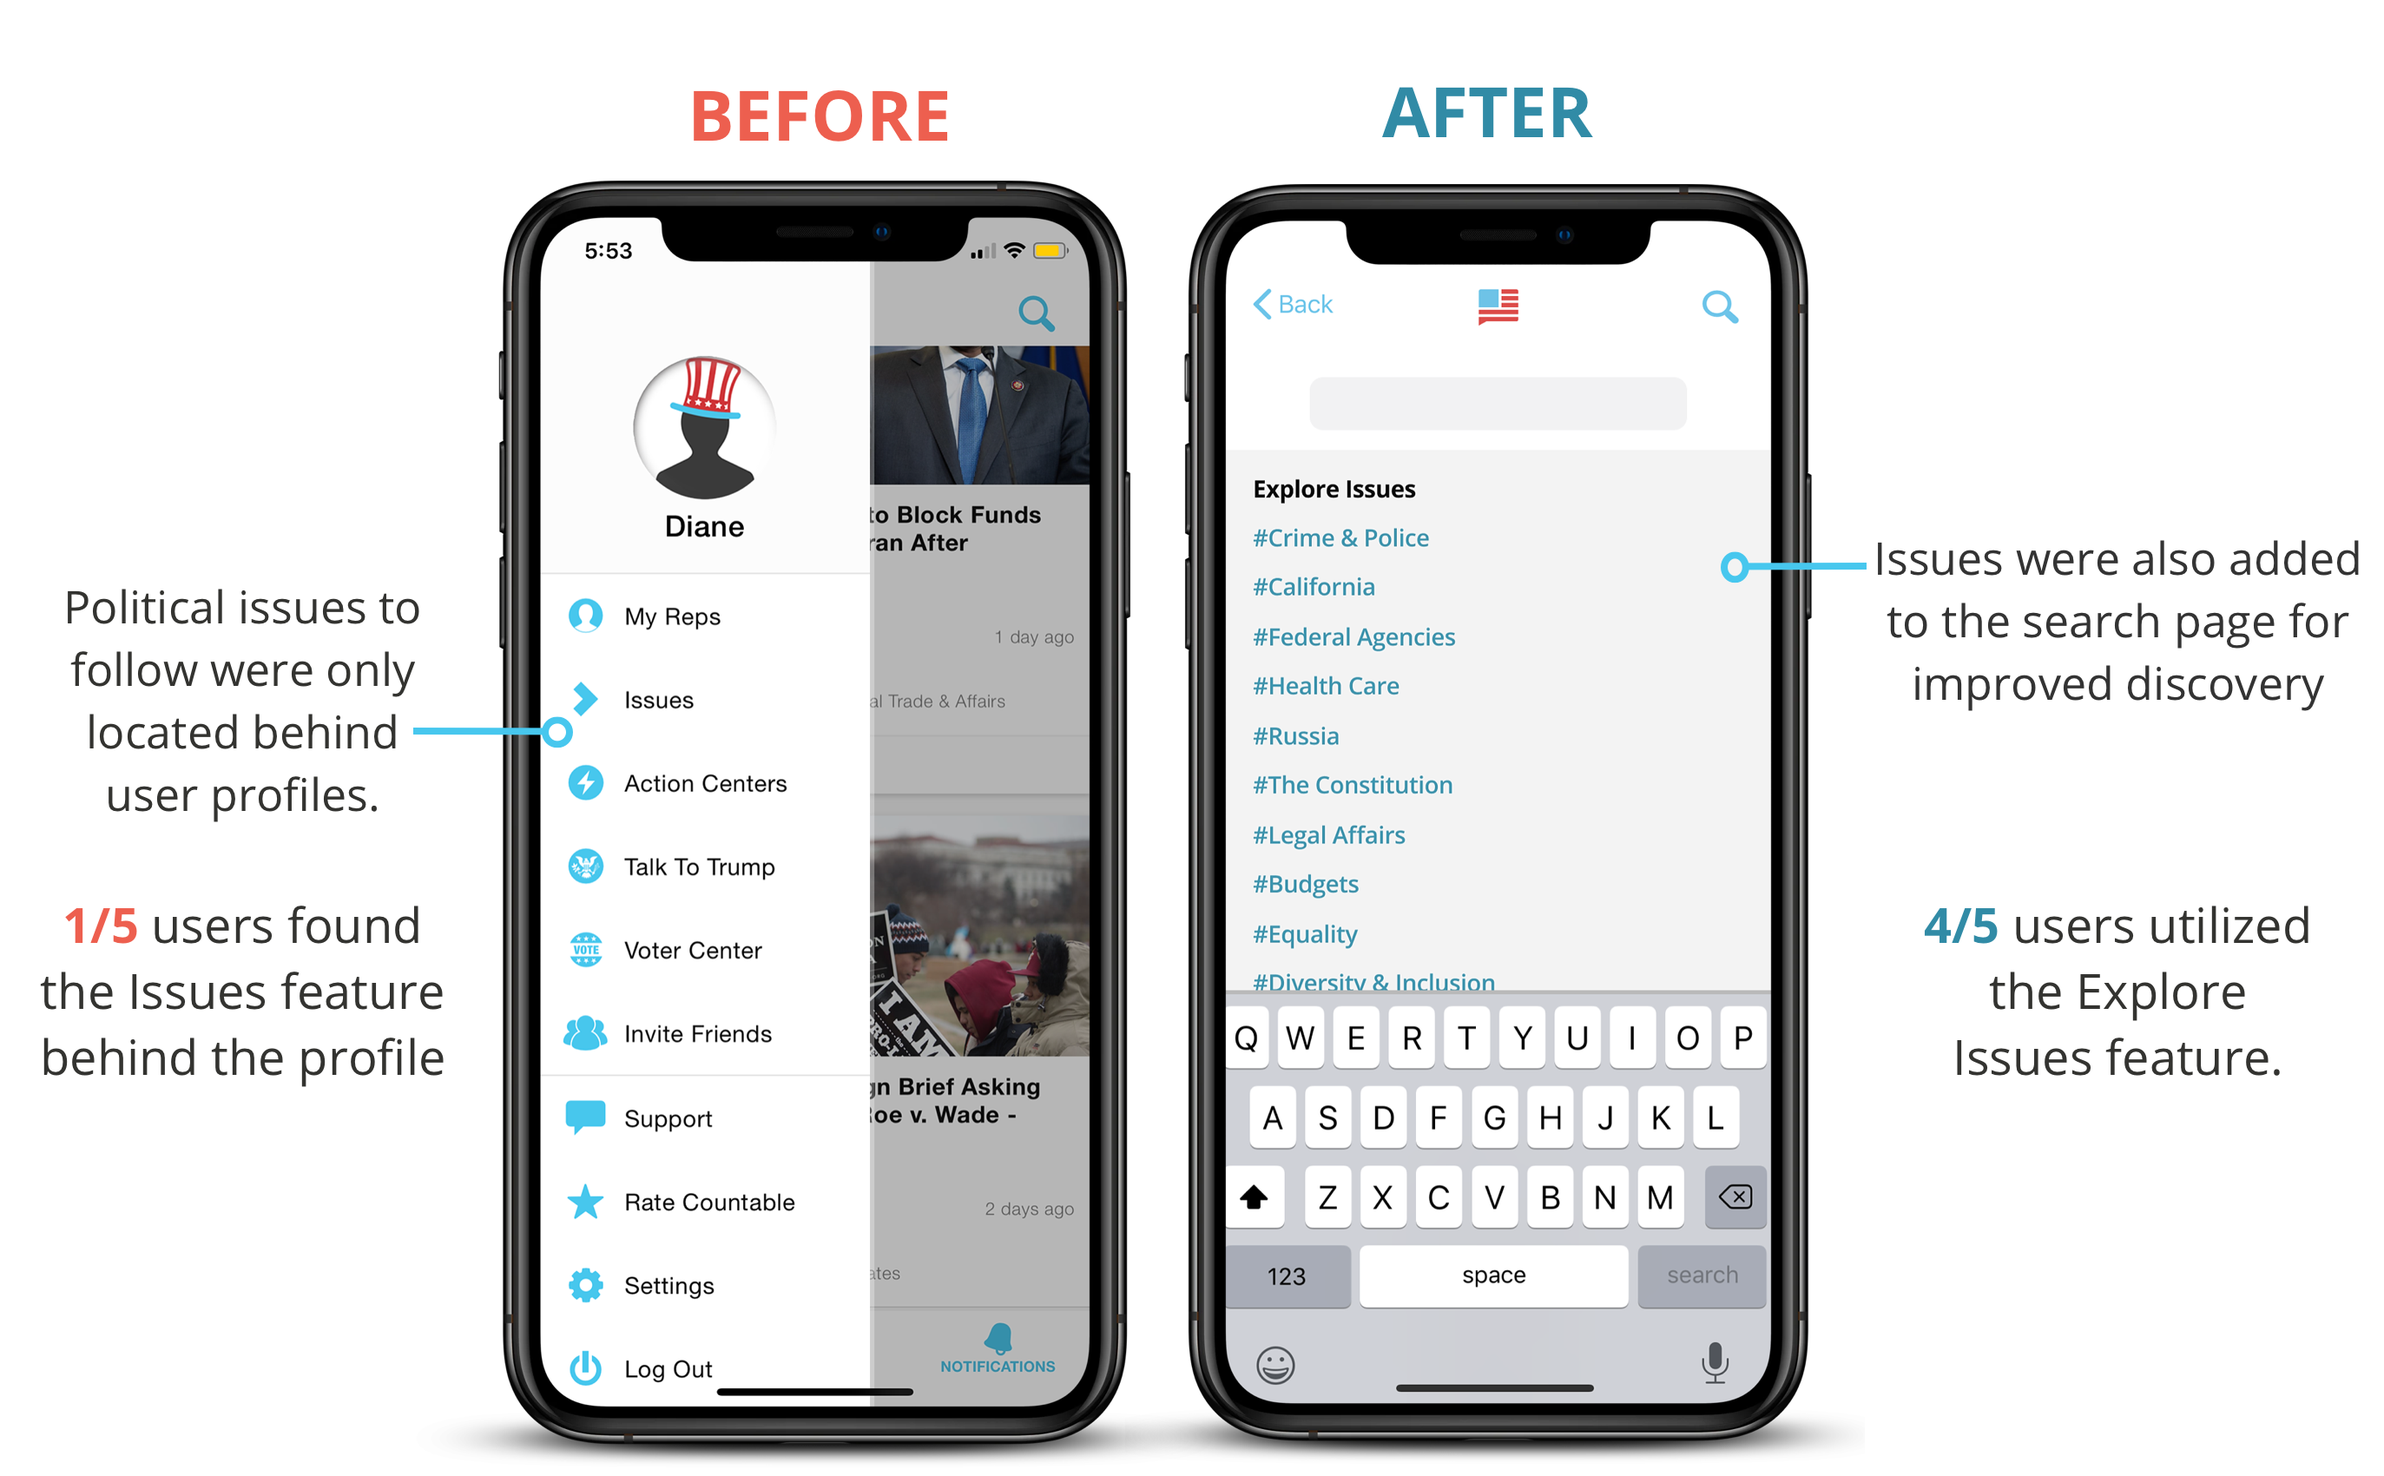
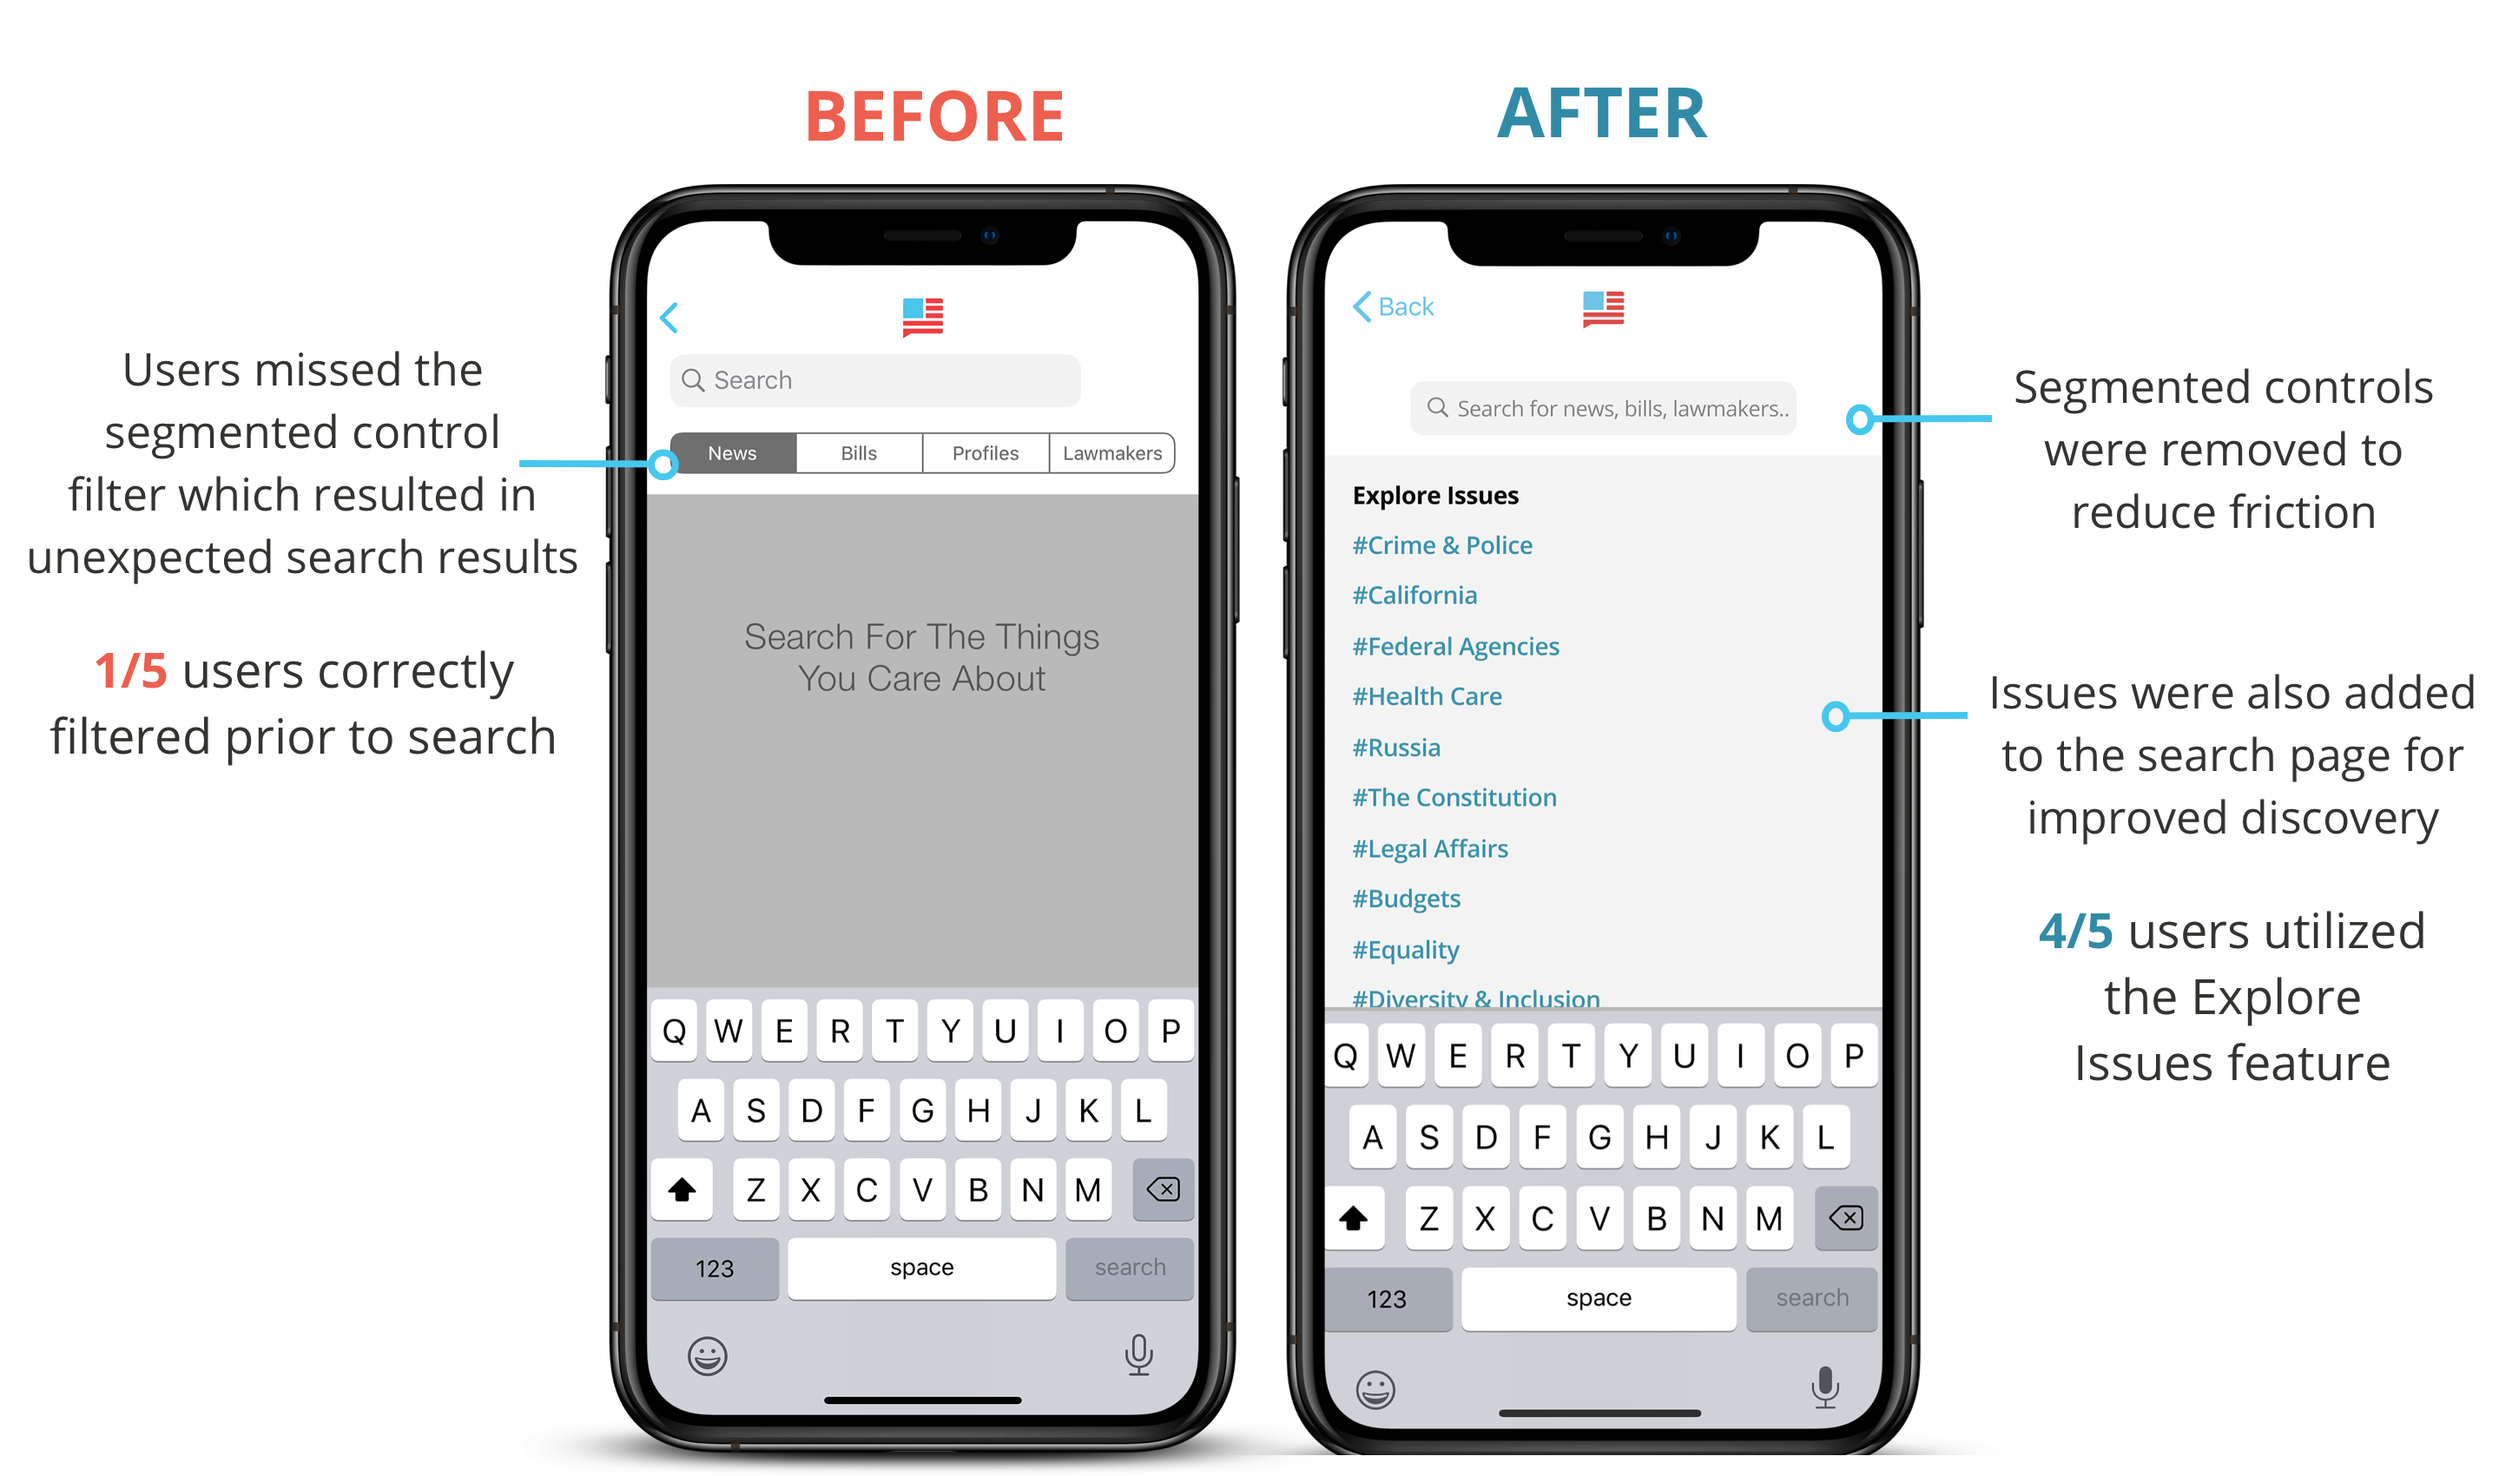
Updated Countable images

diff --git a/_includes/_streamloan_finalresults_1.html b/_includes/_streamloan_finalresults_1.html
@@ -24,36 +24,34 @@
 			</div>
 		</div>
 		<div class="row">
-			<div class="col-md-12 image-row image-row-3-images">
-				<img src="/assets/images/New_datesort.png">
-				<img src="/assets/images/New_opencond.png">
-				<img src="/assets/images/New_assigncon.png">
-			</div>
+			<div class="col-md-4"><img src="/assets/images/New_datesort.png"></div>
+			<div class="col-md-4"><img src="/assets/images/New_opencond.png"></div>
+			<div class="col-md-4"><img src="/assets/images/New_assigncon.png"></div>
 		</div>
-		<div class="row">
-			<div class="col-md-10 offset-md-1">
-				<div class="vlt-gap-80"></div>
-				<h4>Review, accept, or decline condition documents</h4>
-				<div class="vlt-gap-40"></div>
-			</div>
+	</div>
+	<div class="row">
+		<div class="col-md-10 offset-md-1">
+			<div class="vlt-gap-80"></div>
+			<h4>Review, accept, or decline condition documents</h4>
+			<div class="vlt-gap-40"></div>
 		</div>
-		<div class="row">
-			<div class="col-md-4"><img src="/assets/images/Review_selectall.png"></div>
-			<div class="col-md-4"><img src="/assets/images/Review_opencon.png"></div>
-			<div class="col-md-4"><img src="/assets/images/Review_review.png"></div>
+	</div>
+	<div class="row">
+		<div class="col-md-4"><img src="/assets/images/Review_selectall.png"></div>
+		<div class="col-md-4"><img src="/assets/images/Review_opencon.png"></div>
+		<div class="col-md-4"><img src="/assets/images/Review_review.png"></div>
+	</div>
+	<div class="row">
+		<div class="col-md-10 offset-md-1">
+			<div class="vlt-gap-80"></div>
+			<h4>Send accepted conditions to the LOS for approval</h4>
+			<div class="vlt-gap-40"></div>
 		</div>
-		<div class="row">
-			<div class="col-md-10 offset-md-1">
-				<div class="vlt-gap-80"></div>
-				<h4>Send accepted conditions to the LOS for approval</h4>
-				<div class="vlt-gap-40"></div>
-			</div>
-		</div>
-		<div class="row">
-			<div class="col-md-4"><img src="/assets/images/Sent_cond.png"></div>
-			<div class="col-md-4"><img src="/assets/images/Sent_email.png"></div>
-			<div class="col-md-4"><img src="/assets/images/Sent_confirm.png"></div>
-		</div>
+	</div>
+	<div class="row">
+		<div class="col-md-4"><img src="/assets/images/Sent_cond.png"></div>
+		<div class="col-md-4"><img src="/assets/images/Sent_email.png"></div>
+		<div class="col-md-4"><img src="/assets/images/Sent_confirm.png"></div>
 	</div>
 	<div class="vlt-gap-120"></div>
 </section>

diff --git a/_includes/_countable_banner_3.html b/_includes/_countable_banner_3.html
@@ -48,27 +48,32 @@
 						on the three versions below.
 					</p>
 					<div class="vlt-gap-40"></div>
-					<h5>Low-fi Sketches:</h5>
-					<p>I sketched designs based on common patterns
-						found in news apps and employed dot voting to settle on elements
-						highlighted below.</p>
+					<h5>Low-fi Sketches: How do political apps handle search & discovery?</h5>
+					<p>I sketched designs based on common UI patterns
+						found in political news apps and employed dot voting to settle on elements
+						highlighted below.
+					</p>
 					<img src="/assets/images/Sketch_Search.png">
 				</div>
 				<div class="vlt-gap-60"></div>
 				<div>
-					<h5>Wireframes:</h5>
-					<p>After creating the wireframes below, I realized that the updated feed would require
-						a high level of back-end engineering effort to implement.
-					</p>
-					<img src="/assets/images/Countable_wireframe.png">
+					<h5>Wireframes: Designing search and filter functionalities </h5>
+					<p>I reimagined the Search page without the segmented controls to reduce friction.</p>
+					<p>During usability tests, users found Countable's issues hashtags (located on articles in the Feed) helped
+						give context to news stories. I decided to surface the hashtags on the search page for added issue
+						discoverability. </p>
+					<p>Article categories were added to the Feed to reduce cognitive load for the user.</p>
+
+					<img src="/assets/images/Countable_wireframes.png">
 				</div>
 				<div class="vlt-gap-60"></div>
 				<div>
-					<h5>High-Fi:</h5>
-					<p>After creating the wireframes below, I realized that the updated feed would require
-						a higher level of technical effort to implement.
+					<h5>High-Fi: Implementing the navigation bar and finalizing the flow</h5>
+					<p>The navigation bar was added to the Feed after realizing my initial design would introduce a new
+						user experience potentially causing friction for current users.
 					</p>
-					<img src="/assets/images/Countable_wireframe.png">
+					<p></p>
+					<img src="/assets/images/Countable_HighFi_Iterations.png">
 				</div>
 				<div class="vlt-gap-120"></div>
 			</div>

diff --git a/_includes/_countable_finalresults_1.html b/_includes/_countable_finalresults_1.html
@@ -21,7 +21,7 @@
 				<div class="vlt-gap-40"></div>
 				<h4>Pain Point 1: Confusing filters led to unexpected search results </h4>
 				<div class="before-after-row-images">
-					<img src="/assets/images/Before_After_Nav.png" />
+					<img src="/assets/images/Before_After_Preload.png" />
 				</div>
 				<div class="vlt-gap-60"></div>
 			</div>
@@ -32,7 +32,7 @@
 					<h4>Pain Point 2: Users were unable to filter the feed</h4>
 				</div>
 				<div class="before-after-row-images">
-					<img src="/assets/images/Before_After_Search.png" />
+					<img src="/assets/images/Before_After_Nav.png" />
 					<div class="vlt-gap-60"></div>
 				</div>
 			</div>
@@ -41,10 +41,10 @@
 
 			<div class="col-sm-10 offset-md-1">
 				<div class="before-after-pain-point">
-					<h4>Pain Point 3: Issues feature was hidden under the user profile</h4>
+					<h4>Pain Point 3: Search results page left users confused</h4>
 				</div>
 				<div class="before-after-row-images">
-					<img src="/assets/images/Before_After_Preload.png" />
+					<img src="/assets/images/Before_After_Search.png" />
 				</div>
 			</div>
 		</div>

diff --git a/_includes/_countable_finalresultsthoughts_2.html b/_includes/_countable_finalresultsthoughts_2.html
@@ -28,7 +28,7 @@
 		<!--Particle-->
 		<div class="container">
 			<div class="row">
-				<div class="col-sm-12 offset-md-1">
+				<div class="col-sm-10 offset-md-1">
 					<!--Animation Block-->
 					<div class="vlt-animation-block" data-aos="fade" data-aos-delay="0">
 						<!--Section Title-->
@@ -46,5 +46,6 @@
 				</div>
 			</div>
 		</div>
-		<div class="vlt-gap-120"></div>
+		<div class="vlt-gap-80"></div>
+
 	</section>

diff --git a/_includes/_countable_problemsolution.html b/_includes/_countable_problemsolution.html
@@ -59,7 +59,7 @@
 					<h4>Quickly navigate to relevant categories
 					</h4>
 					<div>
-						<p>New header navigation tab bar reduces the cognitive load to interpret
+						<p>New header navigation bar reduces the cognitive load to interpret
 							the news feed, increasing user engagement.
 						</p>
 					</div>
